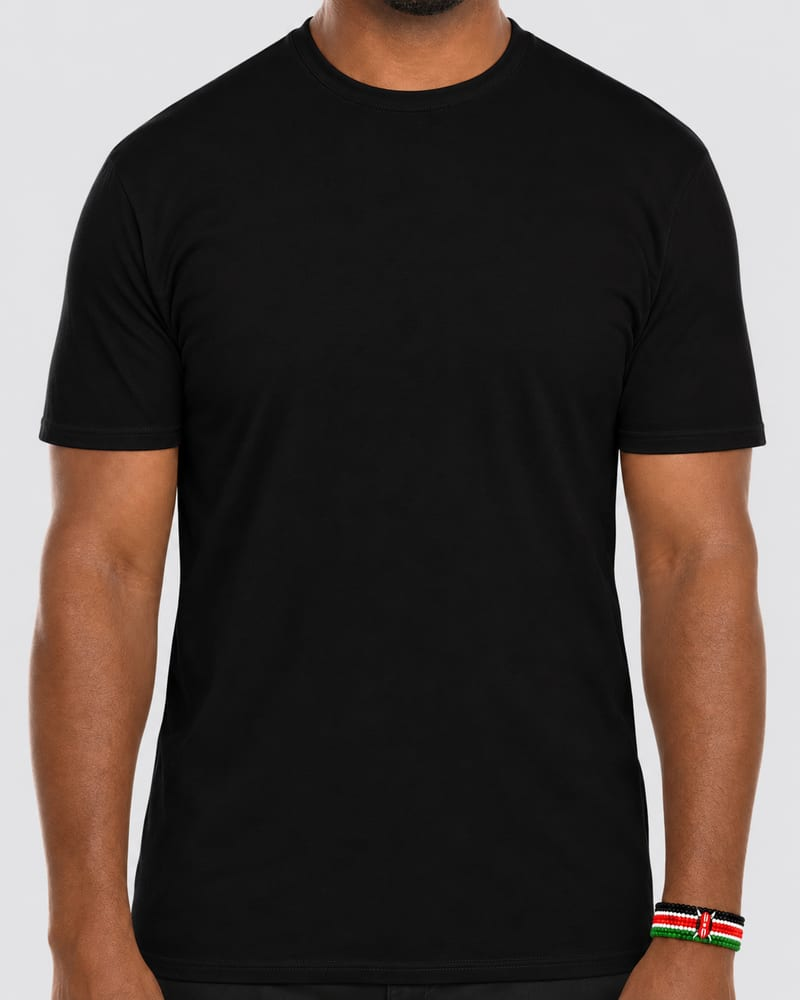
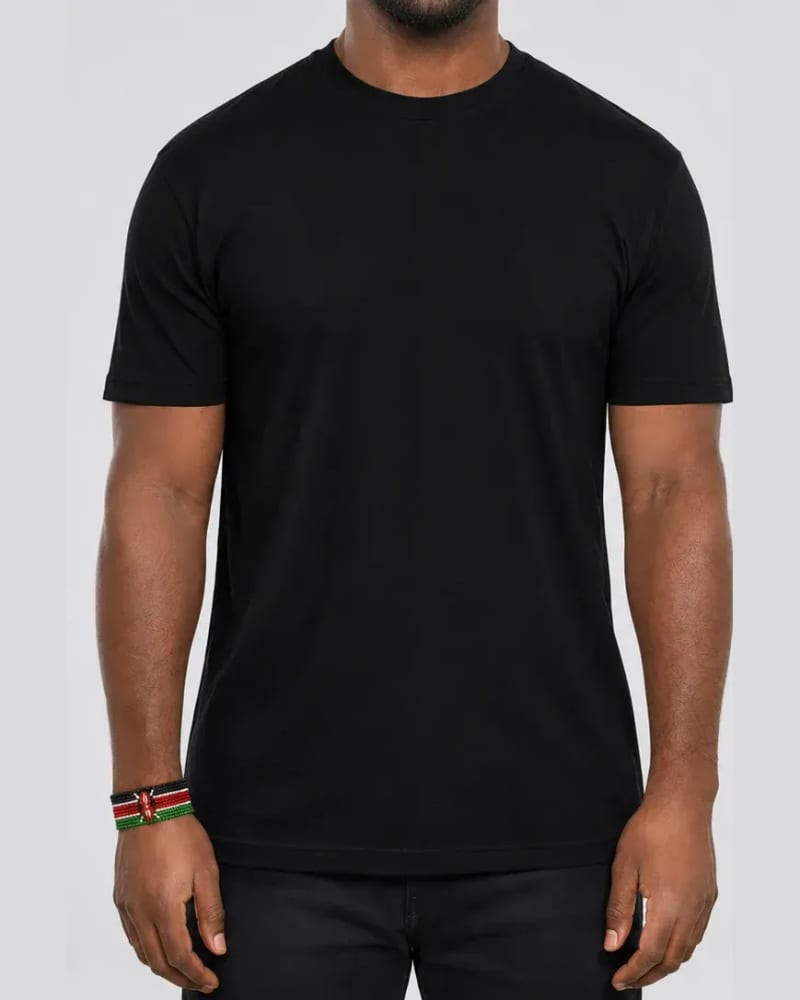
feat: real front and back photos for every T-shirt and hoodie colour; T-shirt front print area 27 x 32 cm
- Garment pictures now come from front-and-back photos (assets/garments/<tee|hoodie>/<colour>.webp):
  each is split, padded with the backdrop colour to the 4:5 frame and saved as an 800 x 1000 JPEG.
  The drawn placeholders are gone.
- Hoodies come in every colour except orange (migration 0011). Labels follow the photo names:
  Heather grey, Royal blue, Burgundy.
- Print areas are calibrated per item and side on the photos and centred on the body; the hoodie
  back starts below the hood. The T-shirt front is 27 cm wide by 32 cm tall.
- Restored designs are kept inside the print area, so a text that measures slightly taller when
  redrawn no longer blocks every later save. Autosave errors now say why instead of always
  blaming the connection.
- The catalogue art and previews are rebuilt for the new photos and print area.

Changed region(s): [[0.0312, 0.0, 0.9688, 1.0], [0.5, 0.961, 0.5312, 1.0]]

diff --git a/lib/editorGeometry.ts b/lib/editorGeometry.ts
@@ -6,28 +6,32 @@ export const CANVAS_W = 400;
 export const CANVAS_H = 500;
 
 /**
- * How each garment picture maps to real life, in canvas pixels: how many pixels make one centimetre of fabric, and
- * where the collar seam is (print areas are measured down from it).
+ * How each garment picture maps to real life, in canvas pixels: how many pixels make one centimetre of fabric, where
+ * print areas are measured down from (the collar seam; on a hoodie's back, the bottom of the hood), and the middle of
+ * the garment (the model doesn't stand exactly in the centre).
  *
- * T-shirt front: measured on the photos (1122 x 1402). The body is about 620 px across just below the sleeves, which
- * is a size M's 51 cm chest (12.2 px per cm), and the front collar seam is at y = 142. At canvas scale (x 0.3565) that
- * is 4.33 px per cm and y = 51. The drawings (T-shirt back, hoodie) keep their placeholder scale until photographed.
+ * Measured on the photos (each side is 724 x 1086, padded to 869 wide, so canvas = (x + 72) * 0.4603, y * 0.4603):
+ * the T-shirt body is about 415 px across below the sleeves, a size M's 51 cm chest, so 8.14 px per cm (3.75 on the
+ * canvas). It is the same model and camera for the hoodies, so they share the scale. Collar seams: T-shirt front
+ * y = 115, back y = 58; hoodie front neckline y = 126; the hood hangs to y = 278 on the back. Body middles: T-shirt
+ * front x = 376, back x = 364; hoodie front x = 367, back x = 360.
  */
-const GEOMETRY: Record<ProductId, Record<Side, { pxPerCm: number; collarY: number }>> = {
-  tee: { front: { pxPerCm: 4.33, collarY: 51 }, back: { pxPerCm: 4.4, collarY: 60 } },
-  hoodie: { front: { pxPerCm: 4.4, collarY: 60 }, back: { pxPerCm: 4.4, collarY: 60 } },
+const PX_PER_CM = 3.75;
+const GEOMETRY: Record<ProductId, Record<Side, { topY: number; centerX: number }>> = {
+  tee: { front: { topY: 52.9, centerX: 206.4 }, back: { topY: 26.7, centerX: 200.7 } },
+  hoodie: { front: { topY: 58, centerX: 202.1 }, back: { topY: 128, centerX: 198.6 } },
 };
 
-/** The fixed print area in canvas pixels, centered on the garment. */
+/** The fixed print area in canvas pixels, centered on the garment's body. */
 export function printAreaRect(product: ProductId, side: Side = 'front'): Rect {
   const a = printAreaFor(product, side);
-  const { pxPerCm, collarY } = GEOMETRY[product][side];
-  const width = a.widthCm * pxPerCm;
+  const { topY, centerX } = GEOMETRY[product][side];
+  const width = a.widthCm * PX_PER_CM;
   return {
-    x: (CANVAS_W - width) / 2,
-    y: collarY + a.topOffsetCm * pxPerCm,
+    x: centerX - width / 2,
+    y: topY + a.topOffsetCm * PX_PER_CM,
     width,
-    height: a.heightCm * pxPerCm,
+    height: a.heightCm * PX_PER_CM,
   };
 }
 

diff --git a/lib/catalog.ts b/lib/catalog.ts
@@ -54,21 +54,21 @@ export const catalog: Record<ProductId, Product> = {
     costKes: 800,
     priceKes: 1500, // PLACEHOLDER: confirm with owner/printer
     colors: COLORS,
-    // Front: 27 cm wide x 15 cm tall, as set by the owner. Its top sits 8 cm below the collar seam (placement placeholder).
-    printArea: { widthCm: 27, heightCm: 15, topOffsetCm: 8 },
+    // Front: 27 cm wide x 32 cm tall, as set by the owner. Its top sits 8 cm below the collar seam (placement placeholder).
+    printArea: { widthCm: 27, heightCm: 32, topOffsetCm: 8 },
     backPrintArea: { widthCm: 28, heightCm: 32, topOffsetCm: 6 }, // PLACEHOLDER: confirm with owner/printer
-    // The front is a real photo; the back is a flat drawing in the same colour until back photos exist.
-    garmentImage: (c, side = 'front') => (side === 'back' ? `/garments/tee-back-${c}.png` : `/garments/tee-${c}.jpg`),
+    garmentImage: (c, side = 'front') => (side === 'back' ? `/garments/tee-back-${c}.jpg` : `/garments/tee-${c}.jpg`),
   },
   hoodie: {
     label: 'Hoodie',
     costKes: 1300,
     priceKes: 2200, // PLACEHOLDER: confirm with owner/printer
-    // Only these two until there are hoodie photos in more colours.
-    colors: ['white', 'black'],
+    // Every colour except orange, which has no hoodie photo.
+    colors: COLORS.filter((c) => c !== 'orange'),
     printArea: { widthCm: 25, heightCm: 28, topOffsetCm: 10 }, // PLACEHOLDER: confirm with owner/printer
-    backPrintArea: { widthCm: 25, heightCm: 28, topOffsetCm: 8 }, // PLACEHOLDER: confirm with owner/printer
-    garmentImage: (c, side = 'front') => (side === 'back' ? `/garments/hoodie-back-${c}.png` : `/garments/hoodie-${c}.png`),
+    // On the back this is measured from the bottom of the hood, not the collar, so the print never lands on the hood.
+    backPrintArea: { widthCm: 25, heightCm: 28, topOffsetCm: 2 }, // PLACEHOLDER: confirm with owner/printer
+    garmentImage: (c, side = 'front') => (side === 'back' ? `/garments/hoodie-back-${c}.jpg` : `/garments/hoodie-${c}.jpg`),
   },
 };
 

diff --git a/tests/catalog.test.ts b/tests/catalog.test.ts
@@ -15,12 +15,15 @@ describe('catalog', () => {
       expect(colorHex(c)).toMatch(/^#[0-9a-f]{6}$/);
     }
     expect(colorLabel('navy')).toBe('Navy blue');
+    expect(colorLabel('maroon')).toBe('Burgundy');
+    expect(colorLabel('grey')).toBe('Heather grey');
   });
 
-  test('T-shirts come in every colour; hoodies in white and black until there are hoodie photos', () => {
+  test('T-shirts come in every colour; hoodies in every colour but orange (there is no orange hoodie photo)', () => {
     expect(catalog.tee.colors).toEqual(COLORS);
-    expect(catalog.hoodie.colors).toEqual(['white', 'black']);
-    expect(offersColor('hoodie', 'maroon')).toBe(false);
+    expect(catalog.hoodie.colors).toEqual(COLORS.filter((c) => c !== 'orange'));
+    expect(offersColor('hoodie', 'orange')).toBe(false);
+    expect(offersColor('hoodie', 'maroon')).toBe(true);
   });
 
   test('every colour an item is sold in has its front and back picture on disk', () => {
@@ -32,7 +35,8 @@ describe('catalog', () => {
         }
       }
     }
-    expect(catalog.tee.garmentImage('maroon')).toBe('/garments/tee-maroon.jpg'); // the real photo
+    expect(catalog.tee.garmentImage('maroon')).toBe('/garments/tee-maroon.jpg');
+    expect(catalog.hoodie.garmentImage('maroon', 'back')).toBe('/garments/hoodie-back-maroon.jpg');
   });
 
   test('light and dark colours are told apart (dark ink on light shirts, white ink on dark ones)', () => {
@@ -40,8 +44,8 @@ describe('catalog', () => {
   });
 
   test('switching to an item that does not come in the colour picks the nearest of light or dark', () => {
-    expect(fallbackColor('hoodie', 'navy')).toBe('black');
-    expect(fallbackColor('hoodie', 'yellow')).toBe('white');
+    expect(fallbackColor('hoodie', 'orange')).toBe('white'); // orange counts as a light colour
+    expect(fallbackColor('hoodie', 'navy')).toBe('navy');
     expect(fallbackColor('hoodie', 'black')).toBe('black');
     expect(fallbackColor('tee', 'maroon')).toBe('maroon');
   });

diff --git a/components/DesignFlow.tsx b/components/DesignFlow.tsx
@@ -4,7 +4,7 @@ import { useEffect, useRef, useState } from 'react';
 import { useRouter } from 'next/navigation';
 import { DesignWorkbench, type InitialDesign, type WorkbenchState } from '@/components/DesignWorkbench';
 import { type ProductId } from '@/lib/catalog';
-import { errorText, json, send } from '@/lib/clientFetch';
+import { errorText, json, OFFLINE_MESSAGE, send } from '@/lib/clientFetch';
 import { postFormWithProgress } from '@/lib/clientUpload';
 import { kes } from '@/lib/labels';
 import type { Prices } from '@/lib/prices';
@@ -55,6 +55,7 @@ function DesignFlowInner({ initial, prices, onFinished }: { initial?: Initial; p
   const [hasBack, setHasBack] = useState(start.backLayers.length > 0);
   const [hasAnything, setHasAnything] = useState(hasContent(start));
   const [saveStatus, setSaveStatus] = useState<SaveStatus>(initial ? 'saved' : 'idle');
+  const [saveError, setSaveError] = useState(SAVE_TEXT.error);
   const [busy, setBusy] = useState(false);
   const [uploading, setUploading] = useState(false);
   const [uploadProgress, setUploadProgress] = useState<number | null>(null);
@@ -97,7 +98,9 @@ function DesignFlowInner({ initial, prices, onFinished }: { initial?: Initial; p
     try {
       await save();
       setSaveStatus('saved');
-    } catch {
+    } catch (e) {
+      // Say why (e.g. "Design must stay inside the print area."); only a lost connection is about the connection.
+      setSaveError(e instanceof Error && e.message !== OFFLINE_MESSAGE ? `Could not save: ${e.message}` : SAVE_TEXT.error);
       setSaveStatus('error');
     }
   }
@@ -192,7 +195,7 @@ function DesignFlowInner({ initial, prices, onFinished }: { initial?: Initial; p
           ))}
         </ol>
         <span data-testid="save-status" aria-live="polite" className="text-xs font-semibold text-mute">
-          {SAVE_TEXT[saveStatus]}
+          {saveStatus === 'error' ? saveError : SAVE_TEXT[saveStatus]}
         </span>
       </div>
 

diff --git a/tests/editorGeometry.test.ts b/tests/editorGeometry.test.ts
@@ -9,10 +9,10 @@ import {
 } from '@/lib/editorGeometry';
 
 describe('printAreaRect', () => {
-  test('is centered horizontally and fully inside the canvas for every product', () => {
-    for (const p of ['tee', 'hoodie'] as const) {
-      const r = printAreaRect(p);
-      expect(r.x + r.width / 2).toBeCloseTo(CANVAS_W / 2);
+  test('sits near the middle (centred on the body in the photo) and fully inside the canvas, every product and side', () => {
+    for (const p of ['tee', 'hoodie'] as const) for (const side of ['front', 'back'] as const) {
+      const r = printAreaRect(p, side);
+      expect(Math.abs(r.x + r.width / 2 - CANVAS_W / 2)).toBeLessThan(10);
       expect(r.x).toBeGreaterThanOrEqual(0);
       expect(r.y).toBeGreaterThanOrEqual(0);
       expect(r.x + r.width).toBeLessThanOrEqual(CANVAS_W);
@@ -20,9 +20,9 @@ describe('printAreaRect', () => {
     }
   });
 
-  test('tee front area has the aspect ratio of its print area in cm (27 x 15)', () => {
+  test('tee front area has the aspect ratio of its print area in cm (27 x 32)', () => {
     const r = printAreaRect('tee');
-    expect(r.width / r.height).toBeCloseTo(27 / 15);
+    expect(r.width / r.height).toBeCloseTo(27 / 32);
   });
 });
 

diff --git a/components/DesignWorkbench.tsx b/components/DesignWorkbench.tsx
@@ -1,7 +1,7 @@
 'use client';
 
 import { useEffect, useRef, useState, useSyncExternalStore, type ReactNode } from 'react';
-import { BACK_PRINT_PRICE_KES, catalog, colorHex, colorLabel, COLORS, fallbackColor, SIZES, type Color, type ProductId, type Side, type Size } from '@/lib/catalog';
+import { BACK_PRINT_PRICE_KES, catalog, colorHex, colorLabel, fallbackColor, SIZES, type Color, type ProductId, type Side, type Size } from '@/lib/catalog';
 import { kes } from '@/lib/labels';
 import type { DesignLayer } from '@/lib/designLayers';
 import { Editor, MAX_TEXT_SIZE, MIN_TEXT_SIZE, type EditorHandle, type HistoryState, type Selection } from '@/components/Editor';
@@ -339,9 +339,6 @@ export function DesignWorkbench({ initial, uploadFile, onChange, onUploadingChan
               />
             ))}
           </div>
-          {catalog[state.product].colors.length < COLORS.length && (
-            <p className="text-xs text-mute">{catalog[state.product].label}s come in {catalog[state.product].colors.map(colorLabel).join(' and ').toLowerCase()} for now.</p>
-          )}
         </div>
 
         <div className="flex justify-between" role="group" aria-label="Size">

diff --git a/tests/designs.test.ts b/tests/designs.test.ts
@@ -129,7 +129,8 @@ describe('saveDesign', () => {
     for (const color of ['maroon', 'navy', 'yellow'] as const) {
       expect((await saveDesign(store, 'alice', { ...base, color, layers: [text('Crew')] })).color).toBe(color);
     }
-    await expect(saveDesign(store, 'alice', { ...base, product: 'hoodie', color: 'maroon', layers: [text('Crew')] })).rejects.toThrow(/not available for this item/i);
+    await expect(saveDesign(store, 'alice', { ...base, product: 'hoodie', color: 'orange', layers: [text('Crew')] })).rejects.toThrow(/not available for this item/i);
+    expect((await saveDesign(store, 'alice', { ...base, product: 'hoodie', color: 'maroon', layers: [text('Crew')] })).color).toBe('maroon');
     expect((await saveDesign(store, 'alice', { ...base, product: 'hoodie', color: 'black', layers: [text('Crew')] })).color).toBe('black');
   });
 

diff --git a/tests/catalogue.test.ts b/tests/catalogue.test.ts
@@ -119,7 +119,7 @@ describe('posting a design', () => {
     ['an unknown item', { fields: { ...fields, product: 'cap' }, front: art(900, 900) }],
     ['no colour', { fields: { ...fields, colors: [] }, front: art(900, 900) }],
     ['an unknown colour', { fields: { ...fields, colors: ['pink'] }, front: art(900, 900) }],
-    ['a hoodie in a colour hoodies do not come in', { fields: { ...fields, product: 'hoodie', colors: ['black', 'yellow'] }, front: art(900, 900) }],
+    ['a hoodie in a colour hoodies do not come in', { fields: { ...fields, product: 'hoodie', colors: ['black', 'orange'] }, front: art(900, 900) }],
     ['a long description', { fields: { ...fields, description: 'x'.repeat(501) }, front: art(900, 900) }],
   ])('refuses %s with 400 and stores nothing', async (_name, input) => {
     const { d, store, saved } = deps();

diff --git a/tests/e2e/editor.spec.ts b/tests/e2e/editor.spec.ts
@@ -118,7 +118,7 @@ test('print quality is shown for the selected image and gets worse as it is enla
   await expect(page.getByTestId('print-quality')).toContainText('Great');
   await page.getByRole('button', { name: 'Remove selected' }).click();
   await expect(page.getByTestId('print-quality')).toHaveCount(0);
-  // 250 px printed about 9 cm wide (the most a square fits in the 15 cm tall front) is far too soft
+  // 250 px printed many centimetres wide on the 27 x 32 cm front is far too soft
   const small = await sharp({ create: { width: 250, height: 250, channels: 3, background: '#d33' } }).png().toBuffer();
   await upload.setInputFiles({ name: 'small.png', mimeType: 'image/png', buffer: small });
   await expect(page.getByTestId('print-quality')).toContainText('Low');

diff --git a/components/CatalogueAdmin.tsx b/components/CatalogueAdmin.tsx
@@ -2,7 +2,7 @@
 
 import { useRef, useState } from 'react';
 import { useRouter } from 'next/navigation';
-import { catalog, colorHex, colorLabel, COLORS, type ProductId } from '@/lib/catalog';
+import { catalog, colorHex, colorLabel, type ProductId } from '@/lib/catalog';
 import { errorText, send } from '@/lib/clientFetch';
 
 /** The form that posts a new design to the catalogue. */
@@ -58,7 +58,6 @@ export function CatalogueForm() {
               </label>
             ))}
           </div>
-          {catalog[product].colors.length < COLORS.length && <p className="text-xs font-normal text-mute">Hoodies come in white and black for now.</p>}
         </fieldset>
       </div>
       <div className="grid gap-4 sm:grid-cols-2">

diff --git a/components/Editor.tsx b/components/Editor.tsx
@@ -256,7 +256,12 @@ export const Editor = forwardRef<EditorHandle, Props>(function Editor(
       for (const o of [...canvas.getObjects()]) canvas.remove(o);
       for (const layer of layers) {
         const obj = await buildObject(layer);
-        if (obj) canvas.add(obj);
+        if (!obj) continue;
+        canvas.add(obj);
+        // Redrawn text can measure a hair taller than when it was saved (font metrics), and a design saved for a
+        // larger print area may not fit this one. Either would put it outside the area, and the server refuses to
+        // save that, so every restored item is kept inside, exactly as while editing.
+        constrain(obj);
       }
       canvas.requestRenderAll();
     } finally {

diff --git a/tests/e2e/full-flow.spec.ts b/tests/e2e/full-flow.spec.ts
@@ -340,6 +340,7 @@ test('a design edited after it went in the cart must be checked again before it 
   await page.goto(`/design?d=${designId}`);
   await expect(page.getByRole('tab', { name: /Front/ })).toContainText('(1)');
   await addName(page, 'More');
+  await expect(page.getByRole('tab', { name: /Front/ })).toContainText('(2)');
   // the page already says "Saved" for the loaded design, so wait for the edit itself to reach the database
   await expect
     .poll(async () => (await service().from('designs').select('layers').eq('id', designId).single()).data?.layers.length)
